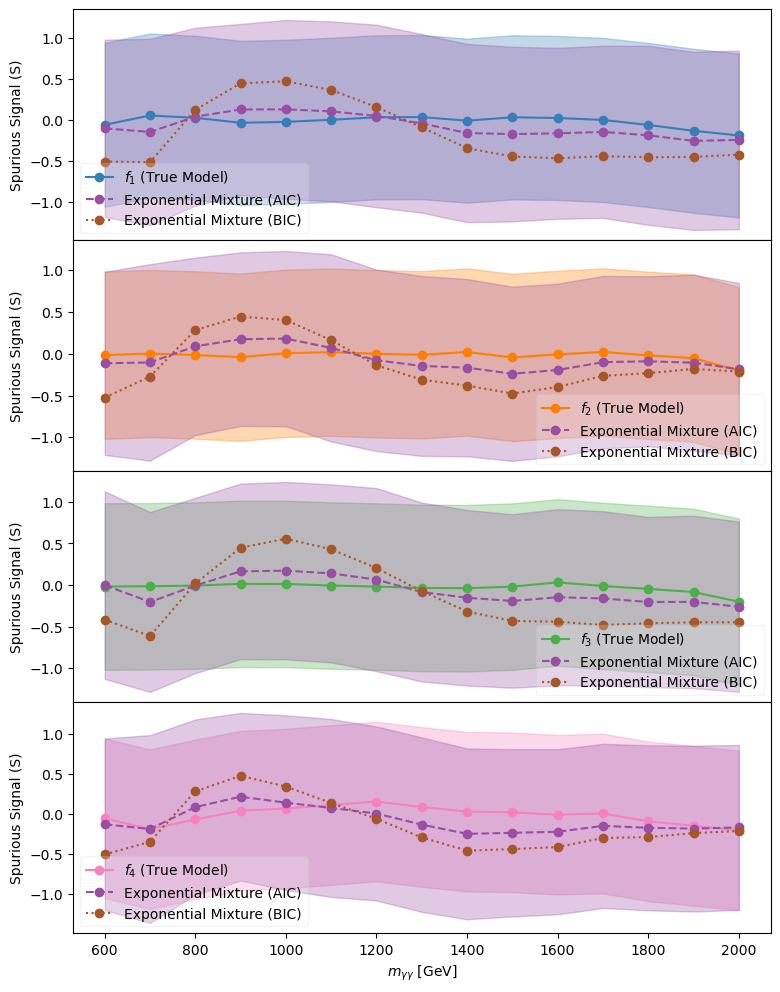
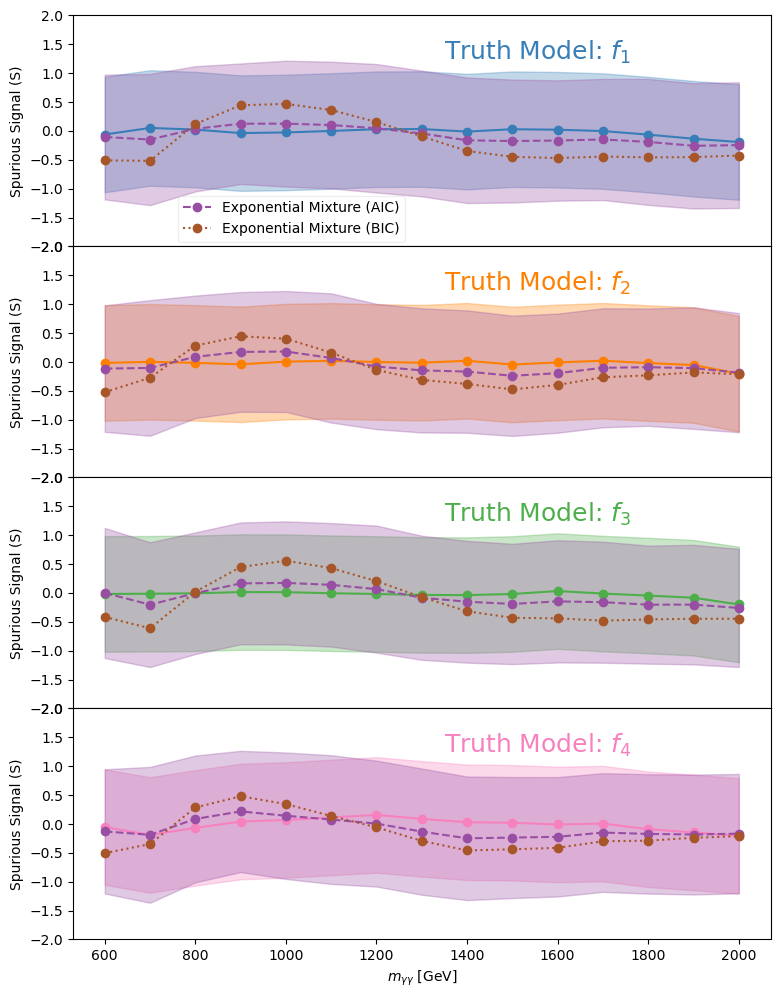
Pushing before rewriting discussion

diff --git a/main.tex b/main.tex
@@ -66,9 +66,9 @@ Searches for new particles are standard in high-energy physics. The Large Hadron
 
 In this paper, we focus on background models for resonant searches, where signals are represented by local (resonant) deviations on top of a smooth falling background. The signal shapes in non-local (non-resonant) searches vary and require background estimation methods which are out of the scope of this paper.
 
-Background models in resonant searches often rely on data sidebands for identification and range from very flexible to rigid analysis-specific background models. Flexible models like polynomials theoretically have low bias, but may need a large number of parameters to achieve this, and can be hard to optimize. These models can also be too flexible, fitting the signal if not careful, and/or generating nonphysical behaviors in the tails. Previous searches considering polynomials, such as those used to discover the Higgs boson \cite{CMS_Higgs_Discovery, ATLAS_Higgs_Discovery}, avoid these issues by only fitting a portion of the observed mass spectra near the Higgs mass, and masking the signal region when initializing the background parameters. Since the Higgs mass occurs within the bulk of the background, this ensures that the background model is well constrained by the data sidebands. However, other analyses extend their search space to the tails, looking for signals at the far ends of distributions where no sidebands are available. These analyses require better extrapolation techniques.
+Background models in resonant searches often rely on data sidebands for identification and range from very flexible to rigid analysis-specific background models. Flexible models like polynomials theoretically have low bias, but may need a large number of parameters to achieve this, and can be hard to optimize. These models can also be too flexible, fitting the signal if not careful, and/or generating nonphysical behaviors in the tails. Previous searches considering polynomials, such as those used to discover/measure the Higgs boson \cite{CMS_Higgs_Discovery, Aad_2014}, avoid these issues by only fitting a portion of the observed mass spectra near the Higgs mass, and masking the signal region when initializing the background parameters. Since the Higgs mass occurs within the bulk of the background, this ensures that the background model is well constrained by the data sidebands. However, other analyses extend their search space to the tails, looking for signals at the far ends of distributions where no sidebands are available. These analyses require better extrapolation techniques.
 
-Analysis-specific background models are often more rigid, avoiding some of the drawbacks that come with very flexible models like polynomials. The underlying theory describing the particle interactions is complicated enough that there are generally no closed-form expressions for describing these backgrounds, but still, there are some good approximations. The most famous example is the dijet function. It has been used since the 1990's by the CDF and D\O\ collaborations and more recently by CMS and ATLAS \cite{Harris:2011bh} to describe the invariant mass distribution of particle jets in hadron colliders. This function is motivated by leading order quantum chromodynamics (QCD) and the mass dependence of parton distribution functions \cite{Harris:2011bh} but also includes ad-hoc terms which are used to improve the fit to the data. This function works on existing datasets, but since it relies on a number of approximations, it is likely to need updating as datasets grow in size.
+Analysis-specific background models are often more rigid, avoiding some of the drawbacks that come with very flexible models like polynomials. The underlying theory describing the particle interactions is complicated enough that there are generally no closed-form expressions for describing these backgrounds, but still, there are some good approximations. The most famous example is the dijet function. It has been used since the 1990's by the CDF and D\O\ collaborations and more recently by CMS and ATLAS \cite{Harris:2011bh} to describe the invariant mass distribution of particle jets in hadron colliders. This function is motivated by leading order quantum chromodynamics (QCD) and the mass dependence of parton distribution functions \cite{Harris:2011bh} but also empirically motivated terms. This function works on existing datasets, but since it relies on a number of approximations and ad-hoc corrections, it is likely to need updating as datasets grow in size.
 
 Other searches will use objects such as photons or electrons. Backgrounds in these kinds of searches tend to be more complicated, as the objects can be real SM photons/electrons or they can be signatures faked by other objects like hadronic jets. Despite this, the dijet function (or a version with a smaller number of parameters) is often considered. To combat the bias associated with the assumption of a particular functional form, more recent analyses \cite{CMS_high_mass_diphoton} will often consider a number of background functions simultaneously using the discrete profiling method \cite{discrete-profiling}. These functions are typically chosen from a larger set of function classes, which can be extended with more parameters. In these cases, researchers are typically interested in finding function classes that approximate the spectra with the smallest number of parameters, using test-based model selection methods.
 
@@ -79,25 +79,27 @@ In the next section, we introduce the finite exponential mixture and our paramet
 \section{Exponential Mixtures}
 \label{sec:emm}
 
-A foundational result in extreme value theory, the Pickands--Balkema--de Haan theorem \cite{Picklands_1975, Balkema_Haan_1974} states that, in some regime, the tails of a broad class of parent distributions converge to a Generalized Pareto Distribution (GPD).  is In high-energy searches for physics beyond the Standard Model, analysts often model smoothly falling spectra above some sufficiently high threshold $u$. The GPD density is given by:
-\begin{equation}
-    f(x | u, \sigma, \xi) = \frac{1}{\sigma} \left( 1 + \xi \frac{x - u}{\sigma} \right)^{-\left( \frac{1}{\xi} + 1 \right)}
-\end{equation}
-where $u$ is the lower threshold, $\sigma$ is the scale parameter, and $\xi$ is the shape parameter. The GPD domains are specified by the value of $\xi$: for $\xi > 0$, the distribution is heavy-tailed; for $\xi = 0$, it reduces to the exponential distribution; and for $\xi < 0$, it has a finite upper bound $x < u - \sigma/\xi$. The GPD will model the density arbitrarily close to the upper bound of the parent distribution, but it may not be a good approximation overall.
+A foundational result in extreme value theory, the Pickands--Balkema-de Haan theorem \cite{Picklands_1975, Balkema_Haan_1974} states that, beyond a sufficiently high threshold, the tails of a broad class of parent distributions converge to a Generalized Pareto Distribution (GPD). This framework is highly attractive for new physics searches, where signal regions typically lie in the extreme kinematic tails past dominant Standard Model resonances. However, in practical applications, the strict assumptions of EVT may not hold across the entire range of interest. Asymptotic convergence can be slow, or the data may simultaneously span two distinct EVT regimes—such as an intermediate heavy-tailed behavior that eventually transitions into a bounded far-tail. Furthermore, experimental constraints may force the selection of a lower threshold $u$ that sits close to unresolved resonance peaks, where these competing tail dynamics overlap. In these complex, pre-asymptotic and mixed regions, standard GPD assumptions break down, requiring a more flexible modeling approach that can accommodate multiple regimes while remaining asymptotically well-behaved.
 
-Relevant to HEP analyses is the case of a heavy-tailed distribution with a finite upper bound. Close enough to this upper bound, the GPD with $\xi < 0$ will be a good approximation, but as the lower threshold decreases, the GPD will fail to capture the heavy tail behavior of the distribution. Alternatively, if there are no data near the upper bound, the GPD with $\xi>0$ may be a good approximation for the bulk of the data. In the case where both the upper bound and the heavy tail are relevant, the GPD will fail to capture both behaviors, and a more flexible model is needed. If $\xi>0$, the GPD can be represented as an exponential-gamma mixture. This motivates the use of more general exponential mixtures to capture a wider variety of tail behaviors.
+The GPD density is given by:
+\begin{equation}
+f(x | u, \sigma, \xi) = \frac{1}{\sigma} \left( 1 + \xi \frac{x - u}{\sigma} \right)^{-\left( \frac{1}{\xi} + 1 \right)}
+\end{equation}
+where $u$ is the lower threshold, $\sigma$ is the scale parameter, and $\xi$ is the shape parameter. The GPD domains are strictly categorized by the value of $\xi$: for $\xi>0$, the distribution is heavy-tailed and unbounded; for $\xi=0$, it reduces to a simple exponential distribution; and for $\xi<0$, it terminates at a finite upper bound $x<u-\sigma/\xi$. While the GPD is guaranteed to model the density in some asymptotic regime, its rigid parameterization limits its efficacy when modeling broader, non-asymptotic kinematic ranges.
+
+This limitation is particularly acute in high-energy physics analyses that must contend with competing tail behaviors. For instance, a physical spectrum might exhibit a heavy-tailed falloff over an intermediate range before eventually encountering a kinematic or geometric upper bound. A standard GPD is forced to commit to a single regime via $\xi$: choosing $\xi<0$ captures the upper bound but fails to model the heavy-tail behavior as the threshold $u$ is lowered, while choosing $\xi>0$ models the heavy tail but cannot accommodate a finite boundary. To resolve this tension, a model is needed that captures a wider variety of intermediate tail behaviors while preserving the correct asymptotic limits. Crucially, when $\xi>0$, the GPD can be mathematically framed as an exponential-gamma mixture. This structural relationship directly motivates the use of more general exponential mixtures, which provide the necessary flexibility to model pre-asymptotic and intermediate shapes.
 
 Mixture models are a flexible class of models that can be used to approximate a wide variety of distributions. The density of a general single-parameter mixture ($\theta$) can be written as:
 \begin{equation}
 \label{general_mixture}
 f(x) = \int p(\theta) p(x | \theta) d\theta \, ,
 \end{equation}
-where $p(x|\theta)$ is the base density and $p(\theta)$ is the mixing density. In general, $p(\theta)$ can be any density function defined in the domain of $\theta$, although it is commonly estimated non-parametrically as a discrete distribution with $k$ supports. This discrete estimate of $p(\theta)$ can be written as:
+where $p(x|\theta)$ is the base density and $p(\theta)$ is the mixing density. In general, $p(\theta)$ can be any density function defined on the domain of $\theta$. Without assuming a specific functional form for $p(\theta)$, it is commonly estimated non-parametrically, which yields a discrete distribution concentrated at $k$ distinct support points \cite{Kiefer_Wolfowitz, Lindsay}. This discrete estimate of $p(\theta)$ can be written as:
 \begin{equation}
 \label{sum_approx}
 p_k(\vec\theta)=\sum_{i=1}^k w_i \delta(\theta-\theta_i),
 \end{equation}
-where $\vec\theta$ is the vector of the $k$ supports $\theta_i$, $\delta(\cdot)$ is the Dirac delta distribution and $\sum w_i=1$ for normalization. Substituting \ref{sum_approx} into \ref{general_mixture} we find the common form of the finite mixture density:
+where $\vec\theta$ is the vector of the $k$ supports $\theta_i$, $\delta(\cdot)$ is the Dirac delta distribution and $\sum w_i=1$ to ensure that the resulting mixture is normalized and identifiable. Substituting \ref{sum_approx} into \ref{general_mixture} we find the common form of the finite mixture density:
 \begin{equation}
 \label{finite_mixture}
 f_k(x|\vec\theta) = \sum_{i=1}^k w_i p(x | \theta_i) \, .
@@ -107,46 +109,49 @@ The class of exponential mixtures is equivalent to the class of completely monot
 \begin{equation}
 (-1)^n f^{(n)}(x)\geq 0
 \end{equation}
-for all $n \in \{0,1,2,\ldots\}$. This means that the function is non-negative, non-increasing, convex, and so on.} \cite{bernstein}. The class of completely monotonic functions is closed under addition and multiplication \cite{completetly_monotone}. For functions in this class, the finite exponential sum is guaranteed to converge uniformly \cite{McGlinn_1978}. This class does not include functions like the falling tail of a Normal distribution, for example, though the approximation becomes better if one restricts the domain to be sufficiently far from the mean. For large enough lower thresholds the Normal distribution tail converges to the GPD with $\xi=0$, which is an exponential distribution.
+for all $n \in \{0,1,2,\ldots\}$, which means that the function is non-negative, non-increasing, convex, etc.} \cite{bernstein}. The class of completely monotonic functions is closed under addition and multiplication \cite{completetly_monotone}. For functions in this class, it is guaranteed that the finite exponential sum converges uniformly \cite{McGlinn_1978}. This class does not include functions like the falling tail of a Normal distribution, for example, though the approximation becomes better if one restricts the domain to be sufficiently far from the mean. In some regime the Normal distribution tail converges to the GPD with $\xi=0$, which is an exponential distribution.
 
 Using eq. \ref{finite_mixture} we can write the finite exponential mixture density as:
 \begin{equation}
-f_k(x) = \sum_{i=1}^k w_i e^{-\beta_i x} \, ,
+f_k(x|\vec{\beta}, \vec{w}) = \sum_{i=1}^k w_i e^{-\beta_i x} \, ,
 \end{equation}
-where $\beta_i$ is identified as the rate parameter of the exponential distribution, which is now restricted to $[0,\infty)$. To enforce the condition that the weights $\vec{w}$ sum to 1, the parameters are constructed from a set of free parameters $\vec{v}$ with $k-1$ degrees of freedom using the softmax function:
+where $\vec\beta$ are the rate parameters of the exponential distributions with $\beta_i \in [0,\infty)$. To enforce the condition that the weights $\vec{w}$ sum to 1, the parameters are constructed from a set of unconstrained parameters $\vec{v}$ with $k-1$ degrees of freedom using the softmax function:
 \begin{equation}
 \label{softmax}
 w_i = \frac{e^{v_i}}{\sum_{j=1}^{k}e^{v_j}} \, ,
 \end{equation}
 where $v_1=0$ and $v_{i\neq 1} \in (-\infty,\infty)$.
 
+
+\section{Examples} \label{sec:examples}
+
 % ROOT MLE
-The model parameters are estimated from data distributions using maximum likelihood estimation (MLE) using Python distributions of the \texttt{RooFit}~\cite{RooFit} library within the \texttt{ROOT} framework \cite{ROOT}. The use of the \texttt{ROOT} framework is motivated by its widespread use in particle physics research. The optimization uses the \texttt{MINUIT} package \cite{Minuit2} with the \texttt{MIGRAD} optimization algorithm. \texttt{MIGRAD} is a variable-metric method with inexact line search, a stable metric updating scheme, and checks for positive-definiteness.
+The model parameters are estimated from the data using maximum likelihood estimation (MLE) in Python distributions of the \texttt{RooFit}~\cite{RooFit} library within the \texttt{ROOT} framework \cite{ROOT}. The use of the \texttt{ROOT} framework is motivated by its widespread use in particle physics research. The optimization uses the \texttt{MINUIT} package \cite{Minuit2} with the \texttt{MIGRAD} optimization algorithm. \texttt{MIGRAD} is a variable-metric method with inexact line search, a stable metric updating scheme, and checks for positive-definiteness.
 
 % RooFit range dependence
-\texttt{RooFit} will calculate a normalization for the density which depends on the range $(X_{\min},X_{\max})$ of the observable $X$, which makes sense for observables that have physical constraints. We found that the model selection answer depends on $X_{\max}$ even in the case where $X_{\max}>\max(X)$. In particular, we found that $X_{\max}$ near, but greater than $\max(X)$ prefer more complex models with densities that fall off very slowly. We set the \texttt{RooFit} range based on the range of possible observations that we would like to use to constrain our model, which includes regions ($X>\max(X)$) of zero events up to a threshold determined by the beam energy, the physics of the underlying interactions, and the model used. Generally this decision will require some consideration if the data are near the physical threshold; however, for simplicity we choose an upper threshold of 10 TeV below the beam's 13 TeV center of mass energy.
+\texttt{RooFit} will calculate a normalization for the density that depends on the range $(X_{\min},X_{\max})$ of the observable $X$, which makes sense for observables that have physical constraints. We found that the model selection answer depends on $X_{\max}$ even in the case where $X_{\max}>\max(X)$. In particular, we found that $X_{\max}$ near, but greater than $\max(X)$ prefer more complex models with densities that fall off very slowly. We set the \texttt{RooFit} range based on the range of possible observations that we would like to use to constrain our model, which includes regions ($X>\max(X)$) of zero events up to a threshold determined by the beam energy, the physics of the underlying interactions, and the model used. Generally this decision will require some consideration if the data are near the physical threshold; however, for simplicity we choose an upper threshold of 10 TeV below the beam's 13 TeV center of mass energy.
 
 % Convexity and Identifiability
 Mixture models are notoriously non-convex. One trivial source of non-convexity comes from the fact that each exponential term is equivalent. This is known as label switching and means that every minimum [In the MLE?] is replicated $k!$ times. In addition, false minima can be found when one part of the rate space has too many supports while other parts of the space have too few. This can be seen in the case of the 2-component mixture; if the supports are initialized close together, they will become trapped in a false minimum, effectively producing the $k=1$ model. This problem becomes more of an issue as the number of components increases. Given the low dimensionality required for the datasets considered in this paper ($k<6$) we use random restarts to approximate the global minimum, using more restarts for larger $k$. For more advanced methods, see \cite{split-and-merge}.
 
 % Model Selection
-The number of components needed to fit a dataset is determined from that dataset. In contrast to Gaussian mixtures or polynomials, exponentials are rigid, minimizing the risk of overfitting statistical fluctuations in the background or localized signals. An exception is that this model [Describe why this is. It's obviously not part of the exponential mixture but something introduced to describe physics and thresholds.] is free to add a component near the lower threshold which falls off very fast. To fix this, we impose an upper threshold on the rate parameters which is set to be 50 times the rate of a single exponential estimated by $1/(\mathbb{E}(X)-X_{\min})$. We use this reference rate to define a normalized set of rate parameters for the exponential rates so that the initialization can be robust to different datasets. With this transformation, the rate parameters tend to be between 0.5 and 2.5.
+The number of components needed to fit a dataset is determined from that dataset. In contrast to Gaussian mixtures or polynomials, exponentials are rigid, minimizing the risk of overfitting statistical fluctuations in the background or localized signals. An exception to this rigidity occurs near the lower threshold where the model is able to add components with high rates and small weights. Because the exponential has a high rate it falls off very fast affecting only the likelihood of the data near the lower threshold. To control this type of overfitting, we impose an upper threshold on the rate parameters which is set to be 50 times the rate of a single exponential estimated by $1/(\mathbb{E}(X)-X_{\min})$. We also use this reference rate to define a normalized set of rate parameters for the exponential rates so that the initialization is robust to different datasets. With this transformation, the rate parameters tend to be between 0.5 and 2.5.
 
 Model selection methods vary depending on the goal of the analysis. If the components of the model have physical significance, it may be more useful to use conservative test-based methods like the likelihood ratio test (LRT). In our case, we are not interpreting the parameters of the exponential mixture. Instead, we are using this model only as a means of flexibly approximating some unknown density. Following the discussion of McLachlan and Peel (chapter 6.1.1) \cite{finite-mixture-models}, we restrict our set of model selection metrics to the penalized likelihood measures AIC [Define] and BIC [Define]. In Section \ref{sec:toys}, we compare the bias and coverage using these metrics and find AIC to be the least biased with the best coverage. Therefore, we will use AIC to determine the number of exponential components.
 
 As we approach or surpass the number of components needed to model a dataset, we find that the likelihood becomes very flat as a result of the optimization of exponential components with very small weights. In some cases the minimizer will stop and report $\text{status}=3$, which means that the estimated distance to the minimum is above the pre-defined threshold. In these cases, it can be useful to simply run the optimization again with the parameters starting at the values returned by the last optimization attempt. Depending on the dataset and initialization, this may take 50 to 100 attempts until the minimizer converges to an acceptable minimum. It is possible that this is a sign that we have added too many components or that some of the other components are too close together (from bad initialization). Regardless, we allow for a number of retries for every random restart to improve the rate of fits that find an acceptable minimum.
 
-\section{ATLAS Dijet Spectrum} \label{sec:example1}
+\subsection{ATLAS Dijet Spectrum} \label{sec:example1}
 
 % Introduce dataset
 The dataset utilized in this section was collected by the ATLAS experiment at the LHC during the Run 2 data-taking period, spanning from 2015 to 2018 \cite{ATLAS_Dijet}. The publication uses several signal regions defined by the half rapidity separation between the two leading jets $y^*= (y_1 − y_2)/2$, where $y_1$ and $y_2$ are the rapidities of the leading and subleading jets. For this example, we use the dataset defined by $|y^*|<0.6$.
 
 % Dijet function
-This analysis used a sliding window fit with the dijet function. The dijet function is given by:
+Instead of fitting the entire spectrum at once, ATLAS uses a sliding window fit method which reduces the range of data considered to be within the vicinity of the signal hypothesis being tested. The dijet function used in this analysis is given by:
 \begin{equation}
 f_D(x) = p_0(1-x)^{p_1}/x^{p_2+p_3\log x},
 \end{equation}
-where $x=m_{jj}/\sqrt{s}$ for the two jet invariant mass $m_{jj}$ and the center-of-mass energy $\sqrt{s}=13$ TeV. We do not replicate the sliding window fit method here; instead, we fit the entire spectrum at once for our comparisons.
+where $x=m_{jj}/\sqrt{s}$ for the two jet invariant mass $m_{jj}$ and the center-of-mass energy $\sqrt{s}=13$ TeV. Simpler versions of this function exist, i.e., with $p_3=0$, but as datasets become larger these parameterizations must be extended. For our studies, we do not replicate the sliding window fit method used in this analysis; instead, we fit the entire spectrum at once.
 
 % Binning explanation
 The dataset available on \texttt{HEPData} \cite{Maguire_2017} is binned. Datasets in high-energy physics can be very large, causing fits to the original (unbinned) dataset to be time-consuming. In these cases, it is common to bin the data fine enough not to lose information, but wide enough that the fits converge in reasonable times. The bin widths in this case are determined by the dijet invariant mass resolution, which broadens at higher values. The binned likelihood is then given by the product of Poisson probabilities:
@@ -176,7 +181,7 @@ The binning provided on $\texttt{HEPData}$ only includes a single, small-width b
 \begin{figure}[h]
     \centering
     \includegraphics[width=\linewidth]{dijet_fit.png}
-    \caption{Fit of Dijet function and exponential mixture to ATLAS Run 2 Dijet dataset. The pulls (normalized residuals) are calculated as $(n_b-n_{f,b})/\sqrt{n_b}$ where $n_b$ is the number of events in bin $b$, $n_{f,b}$ is the expected number of events using function $f$.}
+    \caption{Fit of Dijet function and exponential mixture to ATLAS Run 2 Dijet dataset (top) and normalized residuals (bottom).}
     \label{fig:dijet_fit}
 \end{figure}
 
@@ -200,10 +205,10 @@ The fit of the dijet function and the 4-component exponential mixture to the Dij
 
 % The tradeoff is then between a small parameter model which is theoretically motivated and a large parameter flexible model which may have reduced sensitivity if the Dijet function provides a better description. However, we show later in Figure \ref{fig:spurious} that the variance in the exponential mixture's predictions are not much larger than that of the true data generating model.
 
-\section{CMS High Mass Diphoton Spectrum} \label{sec:example2}
+\subsection{CMS High Mass Diphoton Spectrum} \label{sec:example2}
 
 % Indroduce dataset
-In this section, we consider the run 2 dataset published by CMS in the high mass diphoton final state \cite{CMS_high_mass_diphoton}. The CMS detector is a general-purpose apparatus built in and around a large-bore superconducting solenoid, which generates a 3.8 T magnetic field containing the inner tracking system and the calorimeters. For diphoton resonance searches, the most critical subsystem is the electromagnetic calorimeter (ECAL), composed of more than 75,000 lead tungstate (PbWO$_4$) crystals. This homogeneous calorimeter provides coverage in the barrel ($|\eta|<1.479$) and endcap ($1.479<|\eta|<3.0$) regions, delivering the exceptional energy resolution and fine granularity necessary to give precise estimates of the invariant mass. For simplicity, we will only use the sample ($n=5,036$) where both photons are in the ECAL barrel region.
+In this section, we consider the run 2 dataset published by CMS in the high-mass two photon final state \cite{CMS_high_mass_diphoton}. The CMS detector is a general-purpose apparatus built in and around a large-bore superconducting solenoid, which generates a 3.8 T magnetic field containing the inner tracking system and the calorimeters. For diphoton resonance searches, the most critical subsystem is the electromagnetic calorimeter (ECAL), composed of more than 75,000 lead tungstate (PbWO$_4$) crystals. This homogeneous calorimeter provides coverage in the barrel ($|\eta|<1.479$) and endcap ($1.479<|\eta|<3.0$) regions, delivering the exceptional energy resolution and fine granularity necessary to give precise estimates of the invariant mass. For simplicity, we will only use the sample ($n=5,036$) where both photons are in the ECAL barrel region.
 
 The background estimate for this analysis uses the discrete profiling method with the following functions:
 \begin{align} \label{eq:dipoton_fns}
@@ -212,7 +217,7 @@ The background estimate for this analysis uses the discrete profiling method wit
     f_3(x)&=p_0(1+xp_1)^{p_2}, \\
     f_4(x)&=p_0(1+xp_1)^{p_2+p_3x},
 \end{align}
-where $x\equiv m_{\gamma\gamma}/\sqrt{s}$, $m_{\gamma\gamma}$ is the invariant mass of two photon system and $\sqrt{s}$ is the center-of-mass energy. 
+where $x\equiv m_{\gamma\gamma}/\sqrt{s}$, $m_{\gamma\gamma}$ is the invariant mass of two photon system and $\sqrt{s}$ is the center-of-mass energy. Candidate functions are chosen from larger, generic classes of analytic expressions (such as power laws, exponentials, and threshold-shifted polynomials) similar to those used in the dijet function. For each functional family, the lowest-order function within each class that yields a $\chi^2$ goodness-of-fit p-value greater than 5\% is selected.
 
 With the published parameter estimates on \texttt{HEPData} we can see that $f_2$ and $f_3$ are completely monotone functions. The first function $f_1$ has completely monotone components but the term $x^{p_2 \log(x)}$ is not; most departures from complete monotonicity are found at low $x$. The derivatives of function four $f_4$ are more complicated than the other functions, with no guarantee of complete monotonicity, though it is possible for the given published parameter estimates.
 
@@ -238,7 +243,7 @@ where $\vec\theta$ are the parameters of the model and $p$ is the probability de
 \begin{figure}[h]
     \centering
     \includegraphics[width=\linewidth]{diphoton_fit.png}
-    \caption{Fit of original functions and exponential mixture (AIC) to CMS high mass diphoton dataset. For visualization, the data/density functions are binned. The pulls (normalized residuals) are calculated as $(n_b-n_{f,b})/\sqrt{n_b}$ where $n_b$ is the number of events in bin $b$, $n_{f,b}$ is the expected number of events.}
+    \caption{Fit of original functions and exponential mixture (AIC) to CMS high mass diphoton dataset (top) and normalized residuals (bottom). For visualization, the data/density functions are binned.}
     \label{fig:diphoton_fit}
 \end{figure}
 
@@ -260,7 +265,9 @@ where $\vec\theta$ are the parameters of the model and $p$ is the probability de
 % \end{table}
 
 % Talk about the figure
-Though the fit is performed without binning, we bin the dataset for visualization. The fits of all four original functions and the exponential mixture are shown in Figure \ref{fig:diphoton_fit}. From the normalized residuals (Pull), we see that the estimates are very similar and that the differences are small relative to the uncertainty of the data in the bins. The AIC and BIC scores are shown in Table \ref{tab:diphoton_AIC_BIC} [again, should be table 2.] where $f_2$ has the smallest AIC, followed by the exponential mixture model.
+Though the fit is performed without binning, we bin the dataset for visualization. The fits of all four original functions and the exponential mixture are shown in Figure \ref{fig:diphoton_fit}. In the normalized residuals we see that the estimates are very similar and that the differences are small relative to the uncertainty of the binned data.
+
+% The AIC and BIC scores are shown in Table \ref{tab:diphoton_AIC_BIC} [again, should be table 2.] where $f_2$ has the smallest AIC, followed by the exponential mixture model.
 
 \section{Simulation Studies}\label{sec:toys}
 
@@ -278,7 +285,7 @@ Figure \ref{fig:bias} shows the relative deviation of the exponential mixture wi
 
 \begin{figure}[h!]
 \includegraphics[width=\textwidth]{bias.png}
-\caption{Percent deviation of estimated density for various functions. Each row represents approximately 5000 datasets simulated from the true model with $n=5,036$ entries in each. The shaded regions represent the plus/minus one standard deviation band for the true model estimates.}
+\caption{Percent deviation of estimated density for various functions. Each row represents approximately $T=5000$ datasets simulated from the true model with $n=5,036$ entries in each. The shaded regions represent the plus/minus one standard deviation band for the true model estimates.}
 \label{fig:bias}
 \end{figure}
 
@@ -304,15 +311,8 @@ The coverages are shown in figure \ref{fig:coverage}. As in the bias study, the 
 
 \begin{figure}[h!]
 \includegraphics[width=\textwidth]{coverage.png}
-\caption{Coverage of estimated density for various functions. Each row represents 400 datasets simulated from the true model with $n=5,036$ entries in each. The 95\% confidence interval is calculated using $B=1000$ bootstraps.}
+\caption{Coverage of estimated density for various functions. Each row represents $T=400$ datasets simulated from the true model with $n=5,036$ entries in each. The 95\% confidence interval is calculated using $B=1000$ bootstraps.}
 \label{fig:coverage}
-\end{figure}
-
-\begin{figure}
-    \centering
-    \includegraphics[width=0.9\linewidth]{spurious_signal.png}
-    \caption{Shown is the comparison of the (truth normalized) expected signal yield $S(x)$ for several data generating functions and the exponential mixtures. Each point represents the average over 1000 pseudo-datasets, and the bands represent the 1 standard deviation interval. The bands are only shown for the true model and the exponential mixture chosen by AIC. Each subplot represents a different data-generating model.}
-    \label{fig:spurious}
 \end{figure}
 
 Next, we compare the spurious signal yield of the data-generating models to the exponential mixtures. We fit the pseudo-datasets with a signal plus background model defined by:
@@ -326,6 +326,13 @@ For each of the 4 data generating functions given above (\ref{eq:dipoton_fns}), 
     S(x) = \frac{1}{T\sigma_{t}}\sum_{i=1}^T N_s^{(i)},
 \end{equation}
 where $T$ is the number of pseudo-datasets and $\sigma_t$ is the population standard deviation of $N_s$ given the true background model.
+
+\begin{figure}
+    \centering
+    \includegraphics[width=0.9\linewidth]{spurious_signal.png}
+    \caption{Shown is the comparison of the (truth normalized) expected signal yield $S(x)$ for several data generating functions and the exponential mixtures. Each point represents the average over $T=1000$ pseudo-datasets, and the bands represent the 1 standard deviation interval. The bands are only shown for the true model and the exponential mixture chosen by AIC. Each subplot represents a different data-generating model.}
+    \label{fig:spurious}
+\end{figure}
 
 This comparison is given in Figure \ref{fig:spurious}. The y-axis shows $S(x)$ in terms of its mean (points) plus and minus the population standard deviation across the pseudo-experiments (colored bands). Generally, the variance of the exponential mixture (AIC) covers that of the true model, and the differences in the mean are small compared to the variance. The bias in $S(x)$ seems to be consistent between this plot and the bias plots \ref{fig:bias} shown above; under-predicting the density corresponds to an over-prediction in the signal strength and vice versa.
 